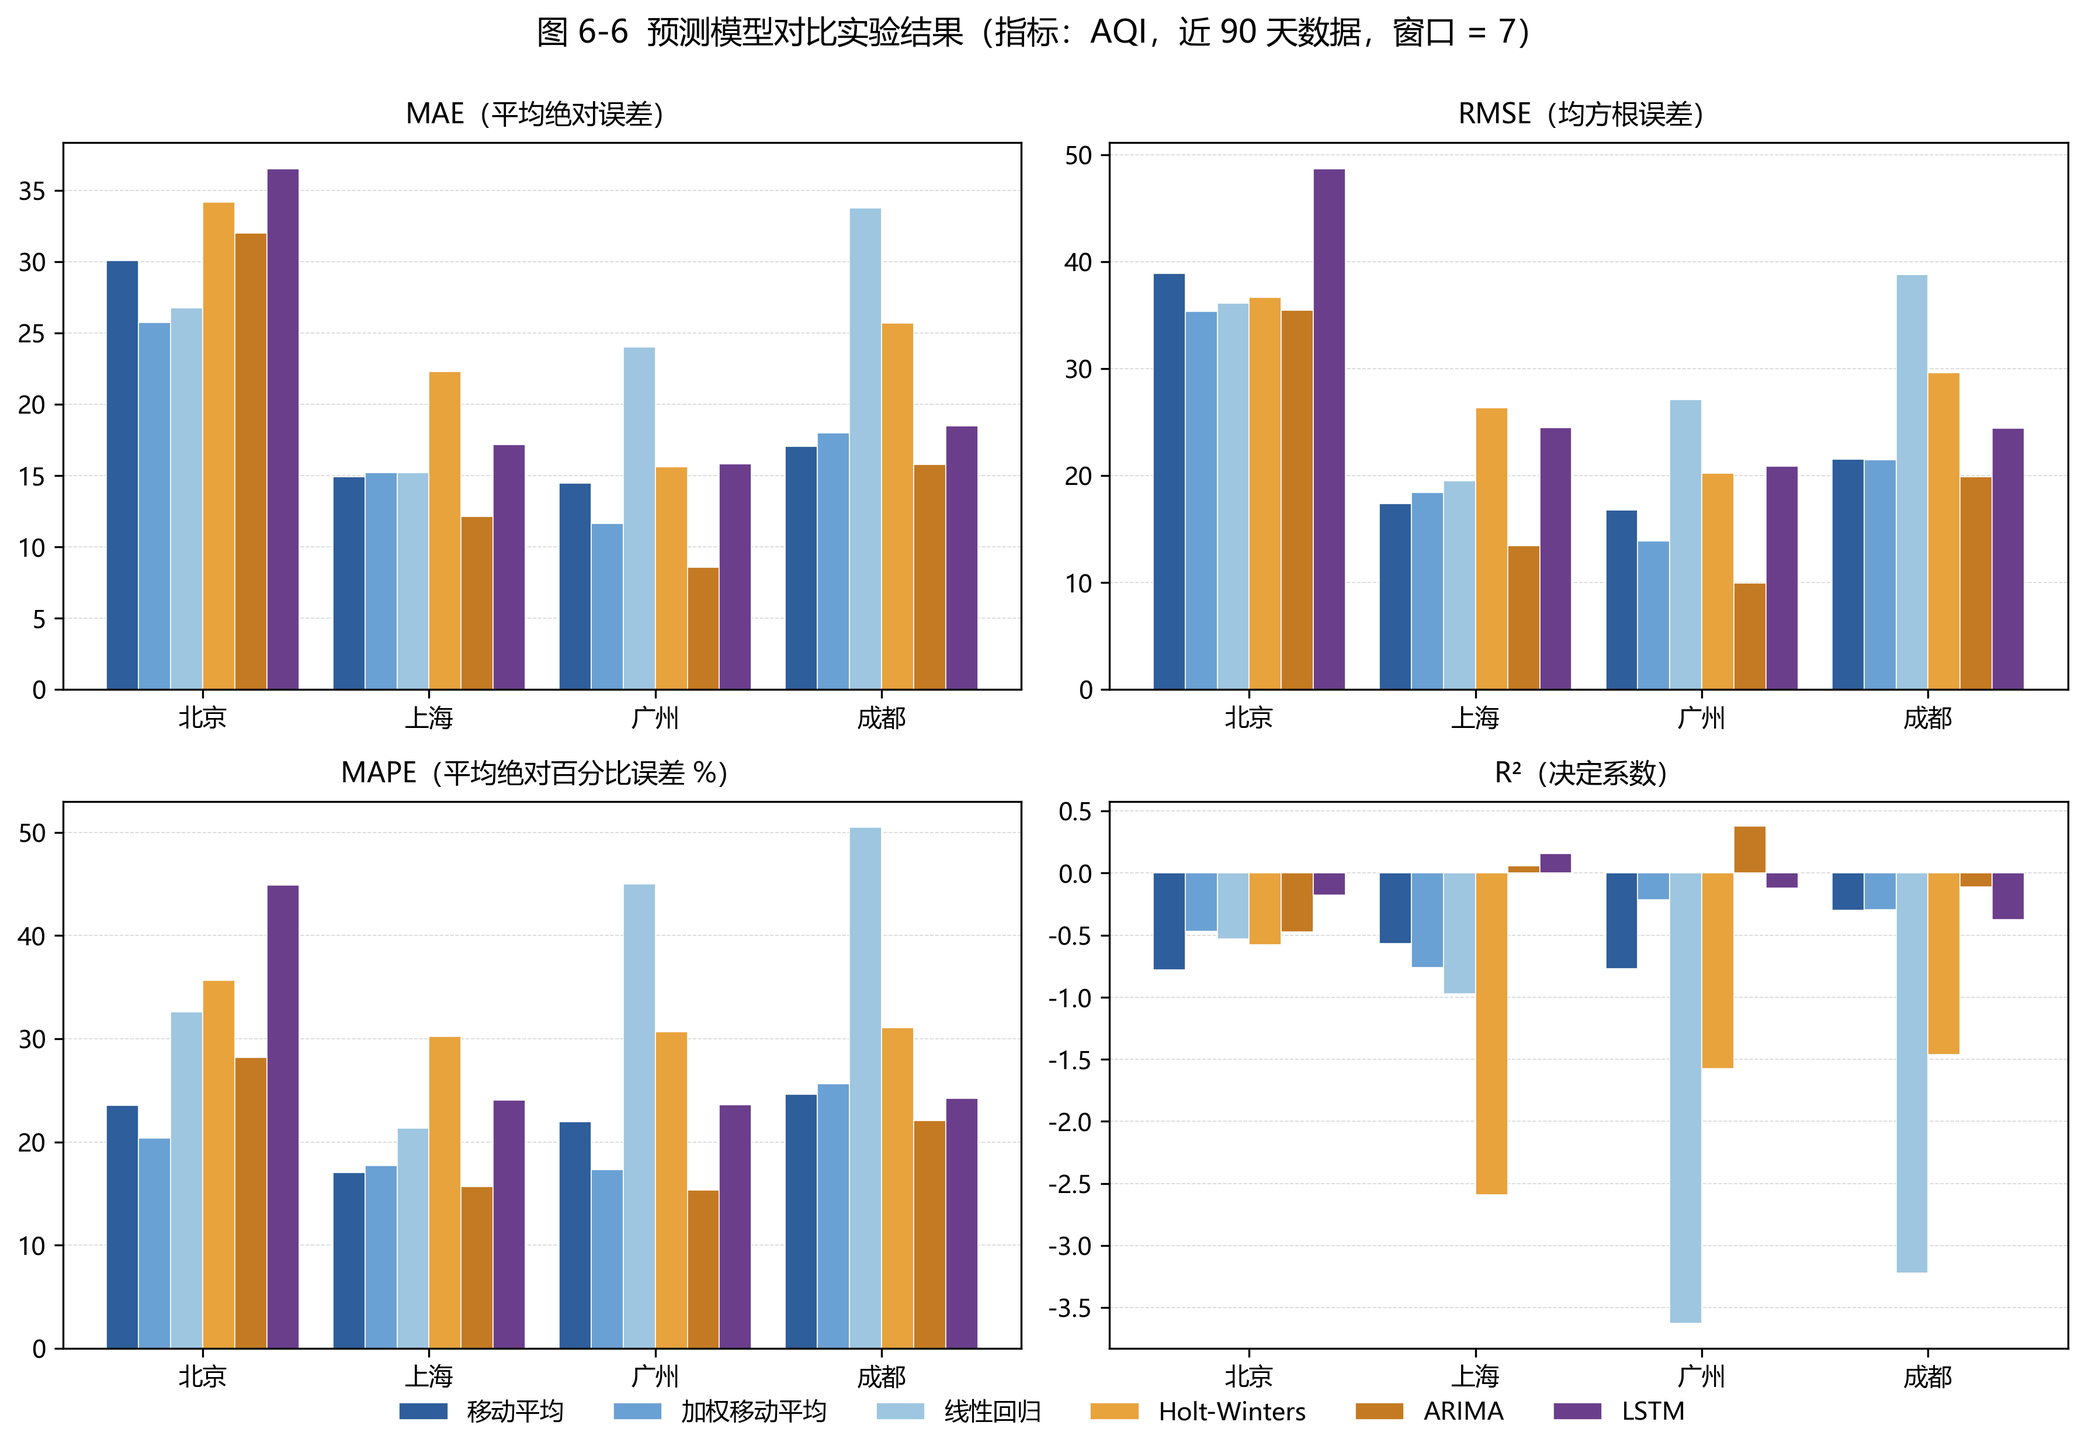
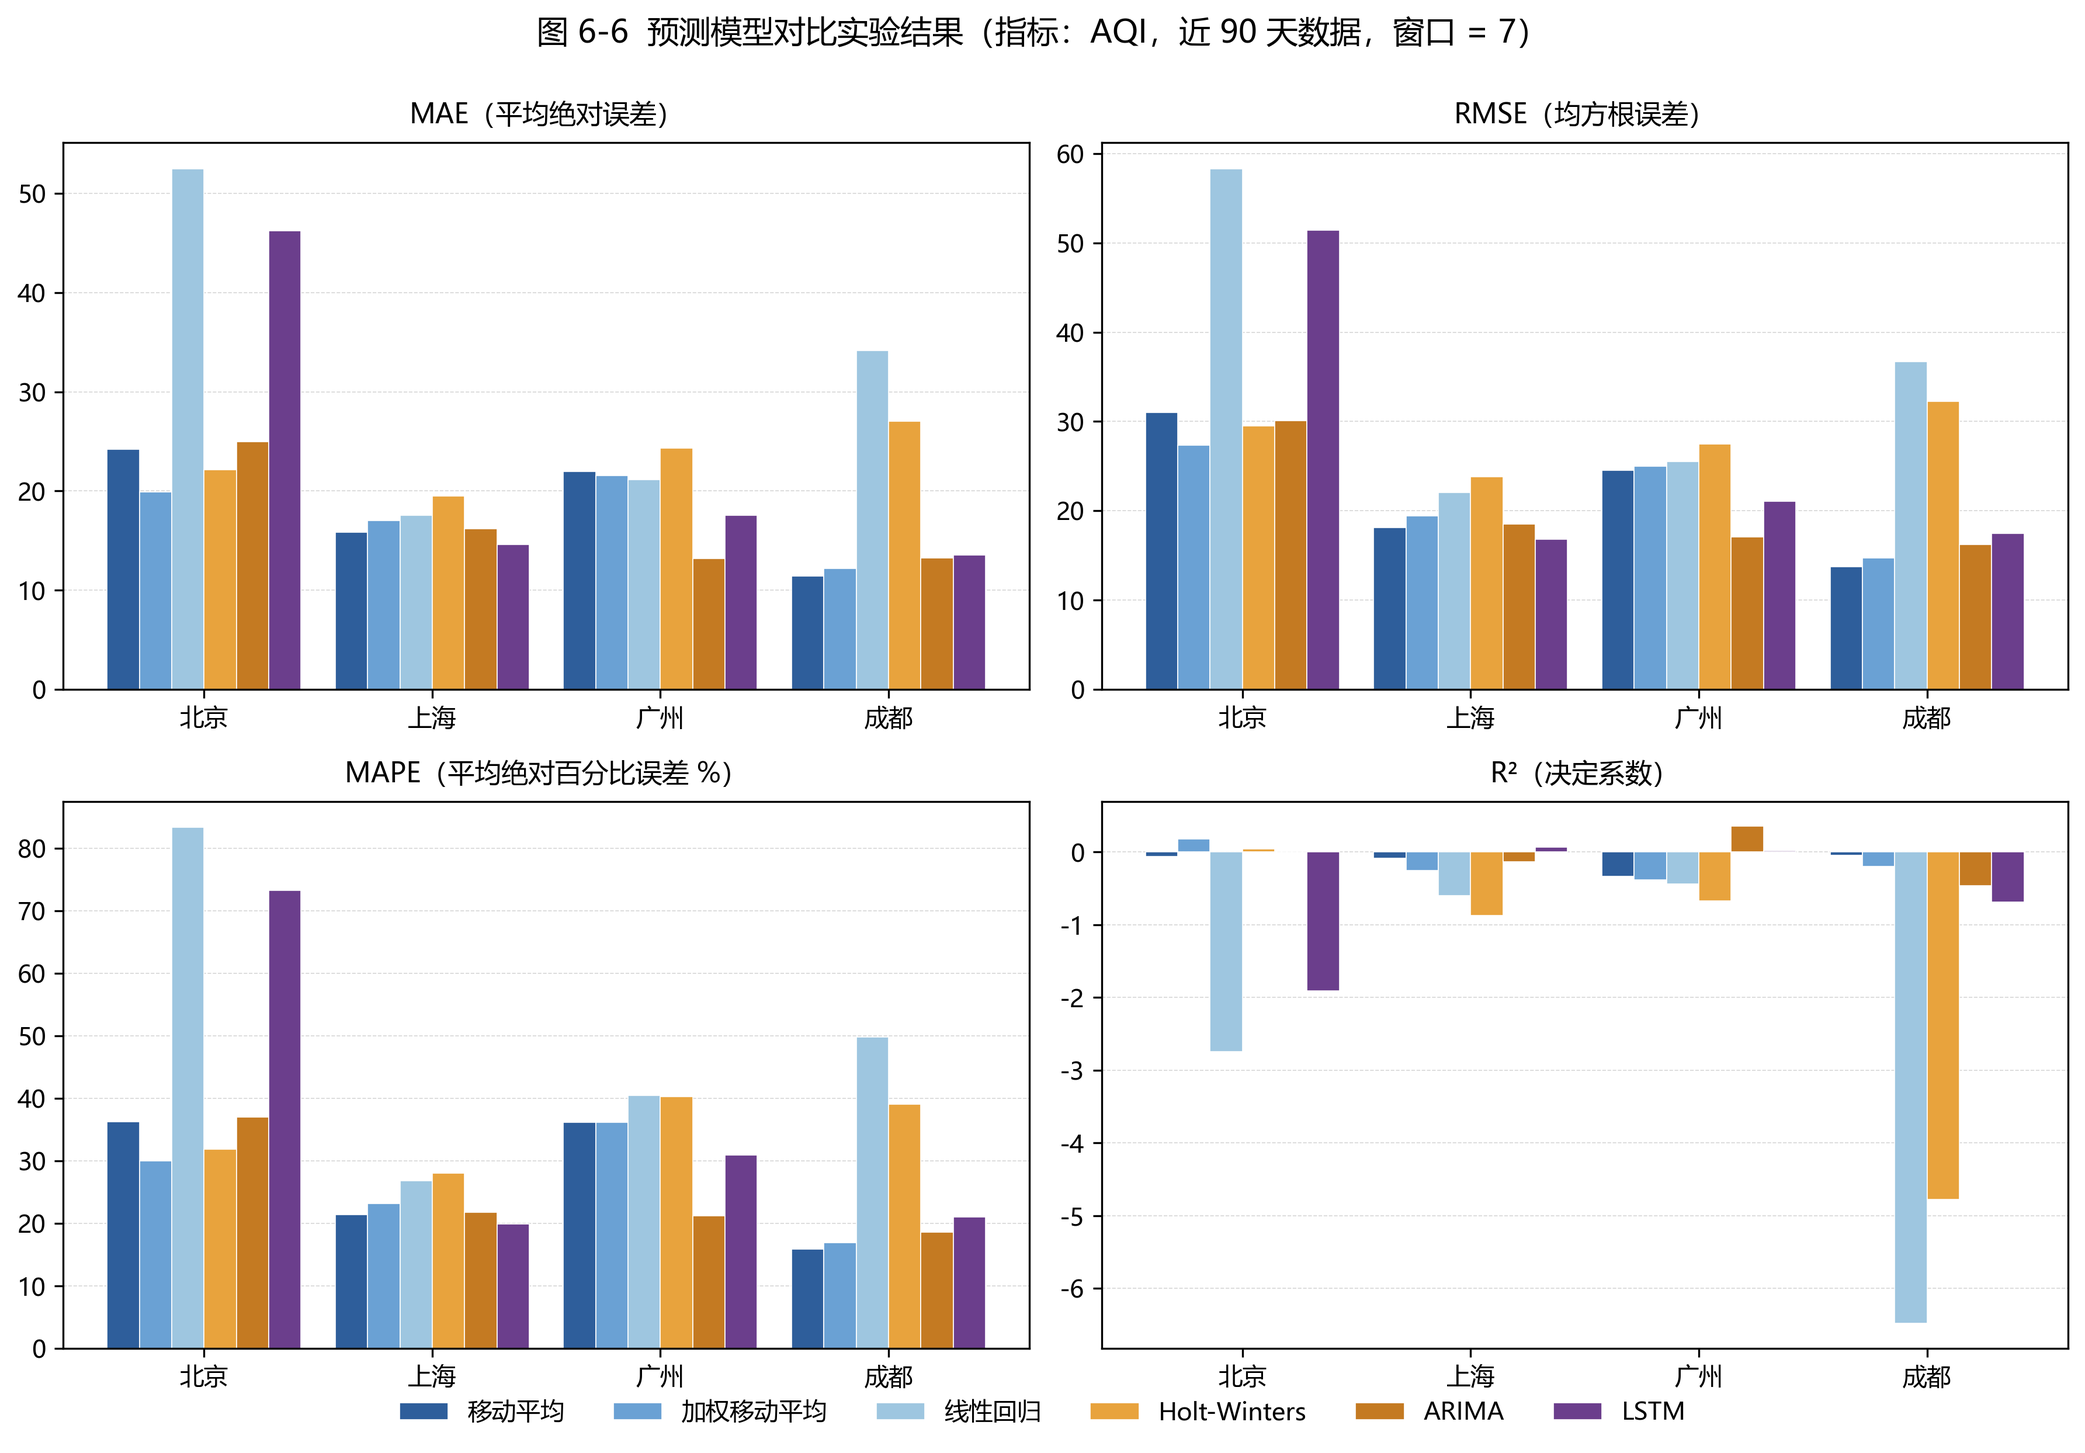
feat：算法改进

diff --git a/backend/app/services/algorithm.py b/backend/app/services/algorithm.py
@@ -129,6 +129,18 @@ def _future_dates(last_date, forecast_days):
 
 
 
+def _shared_test_size(df_len, forecast_days=7):
+    """统一回测窗口：保证 6 种算法在同一份历史序列上使用相同长度的测试集。
+
+    取 max(forecast_days*2, 14) 作为下限，上限不超过 len // 4，最小 1。
+    14 让回测覆盖两个完整 forecast 周期，并与 ARIMA / LSTM 的最小训练样本要求兼容。
+    """
+    base = max(forecast_days * 2, 14)
+    cap = max(df_len // 4, 1)
+    return max(min(base, cap), 1)
+
+
+
 def evaluate_forecast(actual, predicted):
     actual_arr = np.asarray(actual, dtype=float)
     pred_arr = np.asarray(predicted, dtype=float)
@@ -209,9 +221,11 @@ def _empty_prediction_result(metric, requested_algorithm, forecast_days, window,
 
 
 
-def _fallback_result(df, metric, requested_algorithm, forecast_days, window, reason=None):
+def _fallback_result(df, metric, requested_algorithm, forecast_days, 
+                     window, reason=None):
     if df.empty:
-        result = _empty_prediction_result(metric, requested_algorithm, forecast_days, window, df, reason)
+        result = _empty_prediction_result(metric, requested_algorithm, 
+                                          forecast_days, window, df, reason)
         result['usedFallback'] = True
         result['selectedAlgorithm'] = 'moving_average'
         result['algorithmStatus'] = 'fallback'
@@ -272,7 +286,7 @@ def moving_average_predict(city_id, metric='aqi', window=7, forecast_days=7, pre
     rolling_ma = df['value'].rolling(window=window, min_periods=1).mean()
     rolling_std = df['value'].rolling(window=window, min_periods=1).std().fillna(0)
 
-    test_size = min(max(forecast_days, 5), max(len(df) // 4, 1))
+    test_size = _shared_test_size(len(df), forecast_days)
     if len(df) <= test_size:
         test_size = max(1, len(df) - 1)
     train_values = df['value'].iloc[:-test_size].tolist()
@@ -338,7 +352,7 @@ def weighted_moving_average_predict(city_id, metric='aqi', window=7, forecast_da
         local_weights /= local_weights.sum()
         ref_series.iloc[i] = float(np.dot(np.asarray(subset, dtype=float), local_weights))
 
-    test_size = min(max(forecast_days, 5), max(len(df) // 4, 1))
+    test_size = _shared_test_size(len(df), forecast_days)
     train_values = values_list[:-test_size] if len(values_list) > test_size else values_list[:-1]
     actual_test = values_list[-test_size:] if len(values_list) > test_size else values_list[-1:]
     if not train_values:
@@ -387,7 +401,7 @@ def linear_regression_predict(city_id, metric='aqi', window=7, forecast_days=7, 
     slope, intercept = np.polyfit(x, values, 1)
     fitted = intercept + slope * x
 
-    test_size = min(max(forecast_days, 5), max(len(df) // 4, 1))
+    test_size = _shared_test_size(len(df), forecast_days)
     train_x = x[:-test_size] if len(x) > test_size else x[:-1]
     train_y = values[:-test_size] if len(values) > test_size else values[:-1]
     test_x = x[-test_size:] if len(x) > test_size else x[-1:]
@@ -440,7 +454,7 @@ def holt_winters_predict(city_id, metric='aqi', window=7, forecast_days=7, prepa
         trend = beta * (level - prev_level) + (1 - beta) * trend
         fitted_values.append(level + trend)
 
-    test_size = min(max(forecast_days, 5), max(len(values) // 4, 1))
+    test_size = _shared_test_size(len(values), forecast_days)
     train_vals = values[:-test_size] if len(values) > test_size else values[:-1]
     test_vals = values[-test_size:] if len(values) > test_size else values[-1:]
     if len(train_vals) < 2:
@@ -490,30 +504,44 @@ def arima_predict(city_id, metric='aqi', window=7, forecast_days=7, prepared_df=
     except Exception:
         return _fallback_result(df, metric, 'arima', forecast_days, window, '未安装 statsmodels，已回退到移动平均')
 
-    test_size = min(max(forecast_days, 5), max(len(df) // 5, 1))
+    test_size = _shared_test_size(len(df), forecast_days)
     train = df['value'].iloc[:-test_size]
     test = df['value'].iloc[-test_size:]
     if len(train) < 10:
         return _fallback_result(df, metric, 'arima', forecast_days, window, 'ARIMA 训练样本不足')
 
-    best_model = None
+    candidate_orders = [
+        (1, 1, 1), (2, 1, 1), (1, 1, 2), (2, 1, 2),
+        (0, 1, 1), (1, 0, 1), (3, 1, 1), (1, 1, 3),
+        (2, 0, 2), (0, 1, 2),
+    ]
     best_order = None
     best_aic = None
-    for order in [(1, 1, 1), (2, 1, 1), (1, 1, 2), (2, 1, 2)]:
+    for order in candidate_orders:
         try:
             model = ARIMA(train, order=order).fit()
             if best_aic is None or model.aic < best_aic:
-                best_model = model
                 best_order = order
                 best_aic = model.aic
         except Exception:
             continue
 
-    if best_model is None:
+    if best_order is None:
         return _fallback_result(df, metric, 'arima', forecast_days, window, 'ARIMA 拟合失败，已回退到移动平均')
 
-    backtest_pred = best_model.forecast(steps=len(test))
-    evaluation = evaluate_forecast(test.values, backtest_pred.values)
+    # walk-forward backtest：每步用真实值滚动 refit，保持与 MA 类算法的公平
+    backtest_pred = []
+    history = list(train.values)
+    for actual in test.values:
+        try:
+            step_model = ARIMA(history, order=best_order).fit()
+            step_forecast = step_model.forecast(steps=1)
+            pred_value = float(step_forecast.iloc[0]) if hasattr(step_forecast, 'iloc') else float(step_forecast[0])
+        except Exception:
+            pred_value = float(np.mean(history[-7:])) if history else 0.0
+        backtest_pred.append(pred_value)
+        history.append(float(actual))
+    evaluation = evaluate_forecast(test.values, backtest_pred)
 
     final_model = ARIMA(df['value'], order=best_order).fit()
     forecast_res = final_model.get_forecast(steps=forecast_days)
@@ -551,14 +579,15 @@ def arima_predict(city_id, metric='aqi', window=7, forecast_days=7, prepared_df=
 def lstm_predict(city_id, metric='aqi', window=7, forecast_days=7, prepared_df=None):
     _validate_metric(metric, PREDICTION_METRICS)
     df = prepared_df.copy() if prepared_df is not None else _get_daily_series(city_id, metric, 240)
-    lookback = max(window, 7)
+    lookback = max(window * 2, 14)
     if len(df) < max(40, lookback * 4):
         return _fallback_result(df, metric, 'lstm', forecast_days, window, 'LSTM 所需历史数据不足')
 
     try:
         from tensorflow.keras import Sequential
-        from tensorflow.keras.layers import LSTM, Dense, Input
+        from tensorflow.keras.layers import LSTM, Dense, Dropout, Input
         from tensorflow.keras.optimizers import Adam
+        from tensorflow.keras.callbacks import EarlyStopping
         import tensorflow as tf
     except Exception:
         return _fallback_result(df, metric, 'lstm', forecast_days, window, '未安装 TensorFlow，已回退到移动平均')
@@ -583,7 +612,9 @@ def lstm_predict(city_id, metric='aqi', window=7, forecast_days=7, prepared_df=N
     if len(x_all) < 12:
         return _fallback_result(df, metric, 'lstm', forecast_days, window, 'LSTM 序列样本不足')
 
-    split_idx = max(int(len(x_all) * 0.8), 1)
+    test_size = _shared_test_size(len(df), forecast_days)
+    test_size = min(test_size, max(len(x_all) - 8, 1))
+    split_idx = max(len(x_all) - test_size, 1)
     x_train, y_train = x_all[:split_idx], y_all[:split_idx]
     x_test, y_test = x_all[split_idx:], y_all[split_idx:]
     if len(x_test) == 0:
@@ -595,12 +626,19 @@ def lstm_predict(city_id, metric='aqi', window=7, forecast_days=7, prepared_df=N
 
     model = Sequential([
         Input(shape=(lookback, 1)),
-        LSTM(32),
+        LSTM(32, dropout=0.2, recurrent_dropout=0.1),
         Dense(16, activation='relu'),
+        Dropout(0.2),
         Dense(1),
     ])
-    model.compile(optimizer=Adam(learning_rate=0.01), loss='mse')
-    model.fit(x_train, y_train, epochs=25, batch_size=8, verbose=0)
+    model.compile(optimizer=Adam(learning_rate=0.005), loss='mse')
+    early_stop = EarlyStopping(monitor='val_loss', patience=10, restore_best_weights=True)
+    val_split = 0.15 if len(x_train) >= 20 else 0.0
+    fit_kwargs = {'epochs': 100, 'batch_size': 8, 'verbose': 0}
+    if val_split > 0:
+        fit_kwargs['validation_split'] = val_split
+        fit_kwargs['callbacks'] = [early_stop]
+    model.fit(x_train, y_train, **fit_kwargs)
 
     test_pred = model.predict(x_test, verbose=0).reshape(-1)
     evaluation = evaluate_forecast(y_test * scale + min_val, test_pred * scale + min_val)

diff --git a/backend/scripts/validate_risk.py b/backend/scripts/validate_risk.py
@@ -1,17 +1,26 @@
 """
 风险评分一致性验证脚本
 --------------------------------
-在数据库全部历史记录上，按 §3 公式计算简化版 R（暴露 + 气象 + 异常*），
-并把 R 的 4 级划分（low/medium/high/severe）与该天 AQI 按 HJ 633-2012
-六级分类（合并为 4 级）做交叉对比，输出一致率、混淆矩阵与权重敏感性。
+在数据库全部历史记录上，按 §4.3.3 综合风险评分公式计算一份**简化版** R 评分
+（exposure + meteo + 简化版 anomaly + 简化版 trend），并把 R 的 4 级划分
+（low/medium/high/severe）与该天 AQI 按 HJ 633-2012 六级分类（合并为 4 级）做
+交叉对比，输出一致率、混淆矩阵、权重/阈值敏感性以及 train/test split 验证。
 
 用法：
     D:/conda_envs/python3.12/python.exe backend/scripts/validate_risk.py
 
-*注：为了在 24k+ 条记录上跑得动，异常分与趋势分做了简化处理：
- - 异常分：该天的 AQI 是否在本城市 60 天窗口的 IQR 范围外
- - 趋势分：该天与前 5 天滚动平均的差值
-两项简化仅用于批量验证，不影响在线评分模块的精确算法。
+⚠ 重要：本脚本并非在线评分模块的精确复刻，为在 14 万+ 条记录上批量验证可行，
+对两个分项做了简化处理，**论文 6.3.1 实验设计应与此处口径完全一致**：
+ - 异常分（简化）：当条记录的 AQI 是否落在本城市全期 IQR ± 1.5 倍范围之外；
+   命中即给满分 R_ano（5 分），否则 0 分。在线模块按"近 60 天 IQR + MAD
+   命中数 × 0.5"计算。
+ - 趋势分（简化）：当条记录与本城市前 5 日滚动均值的差值占 500 的比例，
+   按 R_trend 上限截断。在线模块按"未来 5 天 Holt-Winters 预测峰值 / 500 ×
+   R_trend"计算（即基于前向预测，本脚本因批量回测改用历史滚动均值代替）。
+
+这两项简化只影响 R_anomaly 与 R_trend 这两个小分项（合计 15 / 100），
+不改变 R_exposure（70 / 100）与 HJ 633-2012 标签均为 AQI 单调函数这一结构事实，
+因此一致率分析的方向性结论可以迁移到在线模块。
 """
 import os
 import sys
@@ -147,6 +156,59 @@ def evaluate(df, weights=(70, 15, 5, 10), thresholds=(20, 35, 55)):
     return {'total': total, 'consistency': consistency, 'near': near, 'cm': cm}
 
 
+def evaluate_with_split(df, n_train_cities=24, seed=42, weights=(70, 15, 5, 10),
+                        candidate_thresholds=None):
+    """
+    按城市切分 train/test，回答老师 #124：网格搜索阈值是否过拟合到这批数据。
+
+    流程：
+      1) 在 train_cities 上对 candidate_thresholds 网格搜索严格一致率最高的阈值组；
+      2) 把该阈值组应用到 test_cities 上重新评估，报告测试集的严格 / 容差一致率；
+      3) 同时给出训练集结果作对照。
+
+    若测试集与训练集一致率差距 < 2 个百分点，认为阈值搜索过程未明显过拟合；
+    若差距 > 5 个百分点，应在论文中坦白报告。
+    """
+    if candidate_thresholds is None:
+        candidate_thresholds = [
+            (18, 33, 53), (20, 35, 55), (22, 37, 57),
+            (25, 38, 58), (25, 40, 60), (28, 42, 62), (30, 45, 65),
+        ]
+
+    cities = sorted(df['city_id'].unique())
+    rng = np.random.default_rng(seed)
+    cities_shuffled = list(cities)
+    rng.shuffle(cities_shuffled)
+    train_cities = set(cities_shuffled[:n_train_cities])
+    test_cities = set(cities_shuffled[n_train_cities:])
+
+    train_df = df[df['city_id'].isin(train_cities)].copy()
+    test_df = df[df['city_id'].isin(test_cities)].copy()
+
+    # 网格搜索
+    best_thr = None
+    best_train_consistency = -1.0
+    for thr in candidate_thresholds:
+        r = evaluate(train_df, weights=weights, thresholds=thr)
+        if r['consistency'] > best_train_consistency:
+            best_train_consistency = r['consistency']
+            best_thr = thr
+
+    train_eval = evaluate(train_df, weights=weights, thresholds=best_thr)
+    test_eval = evaluate(test_df, weights=weights, thresholds=best_thr)
+    return {
+        'train_cities': sorted(train_cities),
+        'test_cities': sorted(test_cities),
+        'best_thresholds': best_thr,
+        'train_consistency': train_eval['consistency'],
+        'train_near': train_eval['near'],
+        'train_total': train_eval['total'],
+        'test_consistency': test_eval['consistency'],
+        'test_near': test_eval['near'],
+        'test_total': test_eval['total'],
+    }
+
+
 def main():
     app = create_app()
     with app.app_context():
@@ -178,13 +240,42 @@ def main():
             tag = f'{thr}'
             print(f"{tag:<28}{r['consistency']*100:>9.2f}%{r['near']*100:>13.2f}%")
 
-        # 选定最优阈值再打一次混淆矩阵
-        print('\n>>> 最终方案复核 (70/15/5/10, 阈值 25 / 40 / 60)')
-        best = evaluate(df, weights=(70, 15, 5, 10), thresholds=(25, 40, 60))
+        # 论文表 6-8 默认行使用 25/38/58 — 这里的复核必须与论文一致
+        print('\n>>> 最终方案复核 (70/15/5/10, 阈值 25 / 38 / 58)')
+        best = evaluate(df, weights=(70, 15, 5, 10), thresholds=(25, 38, 58))
         print(f'  严格一致率: {best["consistency"]*100:.2f}%')
         print(f'  ±1 级一致率: {best["near"]*100:.2f}%')
         print('  混淆矩阵:')
         print(best['cm'].to_string())
+
+        # train/test split 
+        print('\n>>> Split 验证 (24 城训练 → 10 城测试)')
+        split = evaluate_with_split(df, n_train_cities=24, seed=42,
+                                    weights=(70, 15, 5, 10))
+        print(f'  训练城市数: {len(split["train_cities"])}, 训练样本: {split["train_total"]}')
+        print(f'  测试城市数: {len(split["test_cities"])}, 测试样本: {split["test_total"]}')
+        print(f'  训练集网格搜索得到的阈值: {split["best_thresholds"]}')
+        print(f'  训练集严格一致率: {split["train_consistency"]*100:.2f}%')
+        print(f'  训练集 ±1 级一致率: {split["train_near"]*100:.2f}%')
+        print(f'  测试集严格一致率: {split["test_consistency"]*100:.2f}%')
+        print(f'  测试集 ±1 级一致率: {split["test_near"]*100:.2f}%')
+        gap = abs(split['train_consistency'] - split['test_consistency']) * 100
+        print(f'  train-test 一致率差距: {gap:.2f} 个百分点 '
+              f'({"未明显过拟合" if gap < 2 else ("轻微过拟合" if gap < 5 else "存在过拟合，应在论文中坦白报告")})')
+
+        # 多种子复核：避免 seed=42 偶然好看
+        print('\n>>> Split 多种子复核')
+        gaps = []
+        for seed in (1, 7, 42, 123, 2025):
+            sp = evaluate_with_split(df, n_train_cities=24, seed=seed,
+                                     weights=(70, 15, 5, 10))
+            g = abs(sp['train_consistency'] - sp['test_consistency']) * 100
+            gaps.append(g)
+            print(f'  seed={seed}: 训练 {sp["train_consistency"]*100:.2f}% / '
+                  f'测试 {sp["test_consistency"]*100:.2f}% / 阈值 {sp["best_thresholds"]} / '
+                  f'差距 {g:.2f} 点')
+        if gaps:
+            print(f'  5 种子平均差距: {sum(gaps)/len(gaps):.2f} 个百分点')
 
 
 if __name__ == '__main__':
